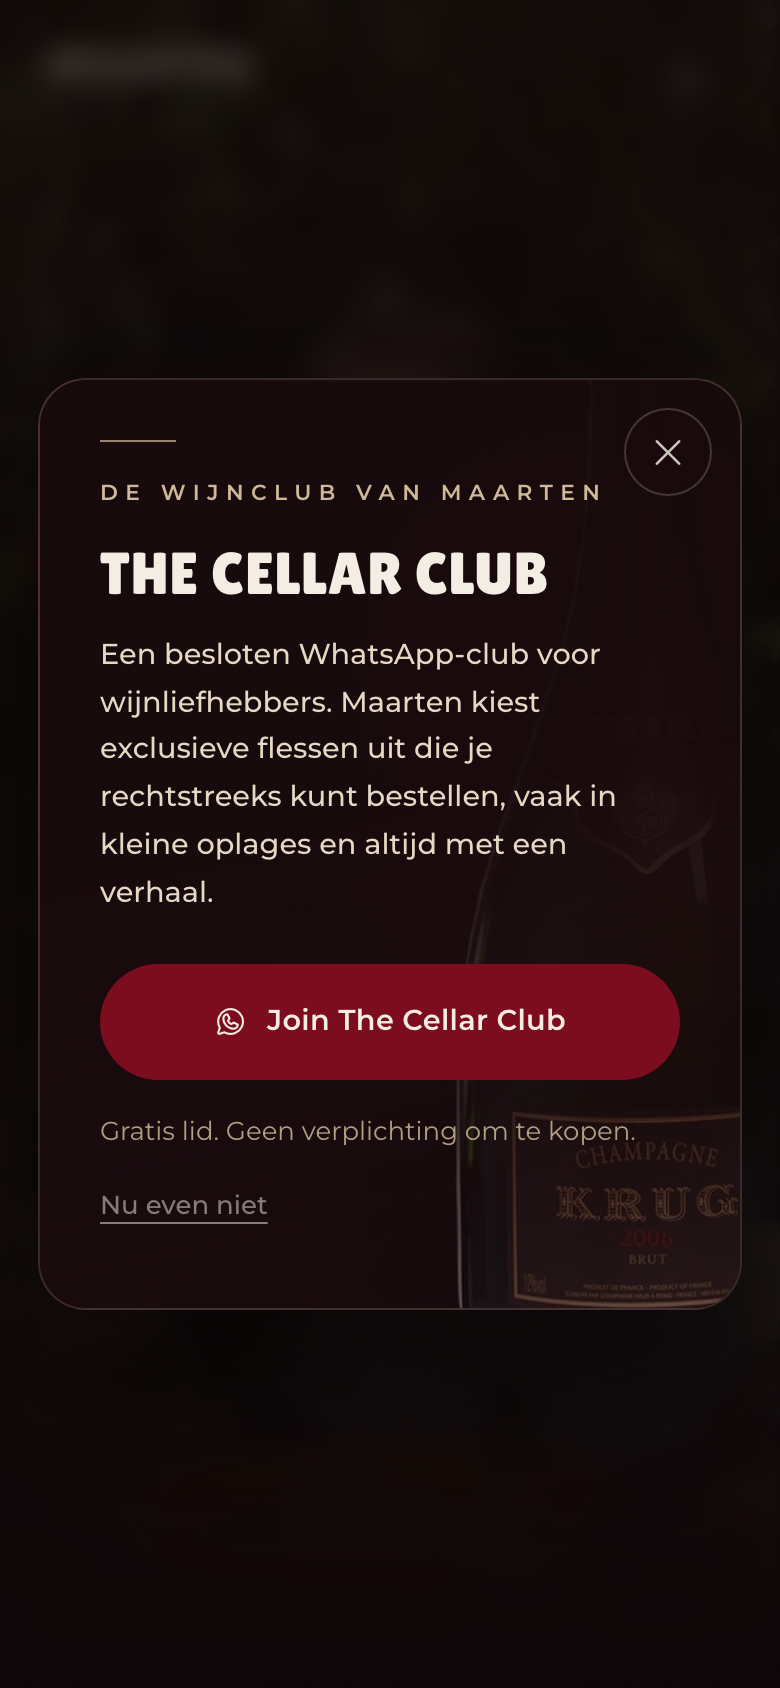
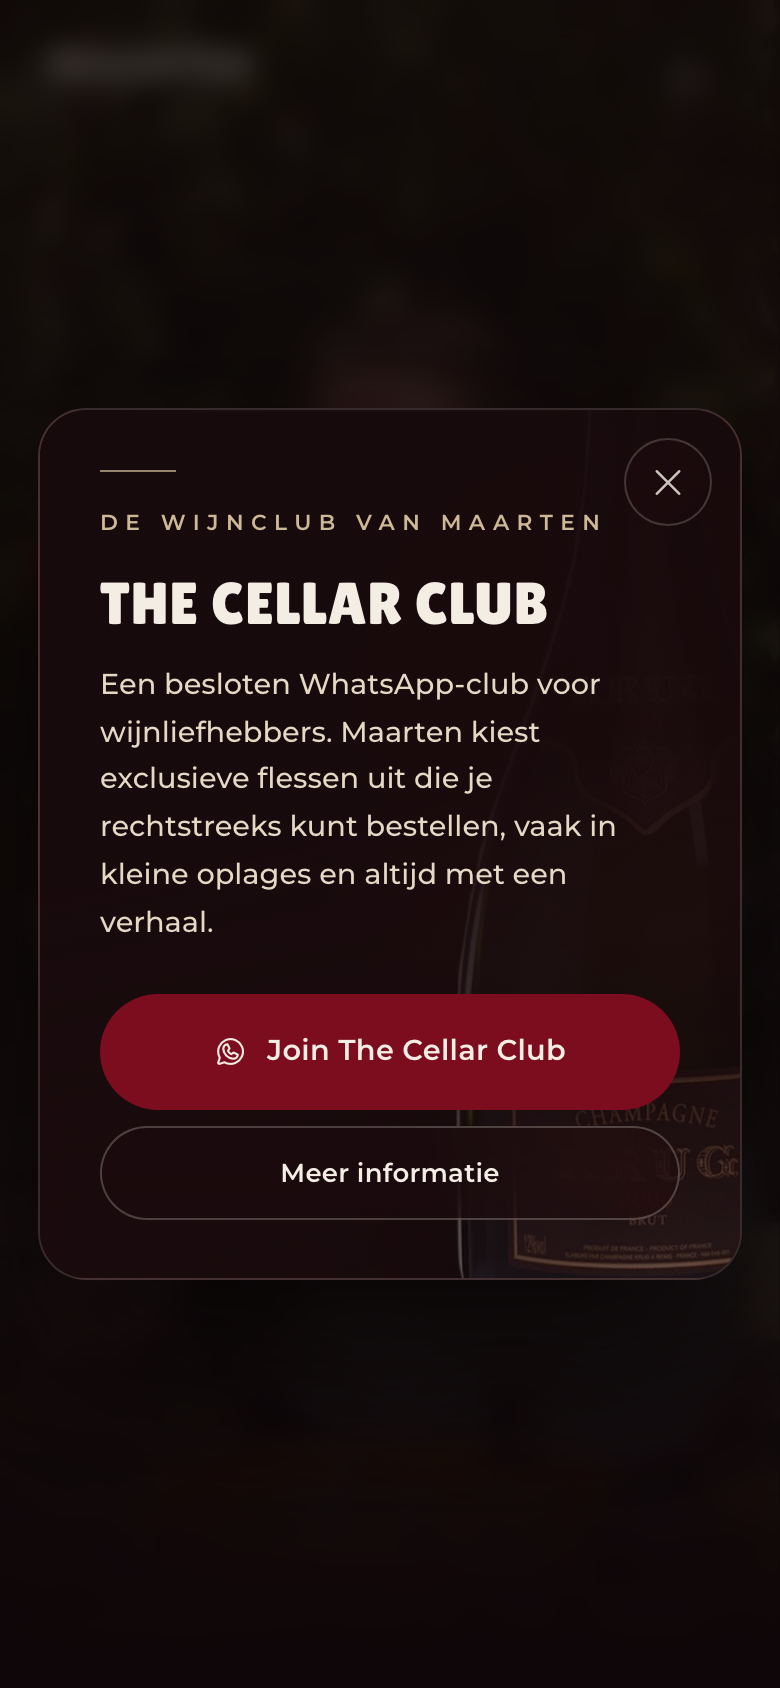
Pop-up: wegklik-link en geruststelling eruit, tweede knop erbij
Op verzoek van Job: "Nu even niet" en "Gratis lid. Geen verplichting om te
kopen." verwijderd, met hun instellingen uit settings_schema.json. Daarvoor
in de plaats onder de joinknop een kleinere, niet-rode knop (btn-glass)
"Meer informatie" naar /pages/the-cellar-club. Verdwijnt vanzelf als die
pagina niet bestaat.

Sluiten gaat nu via het kruisje, Escape of een klik naast het paneel.
De 30-dagen-vlag wordt voortaan meteen bij de klik geschreven in plaats van
pas na de fade: de nieuwe knop navigeert weg, en anders stond de pop-up er
bij terugkeer op de home gewoon weer.

Live gemeten: beide teksten weg, knop wijst naar /pages/the-cellar-club,
klikken navigeert en onthoudt, geen horizontale overflow op desktop of mobiel.

diff --git a/shopify-theme/assets/theme.css b/shopify-theme/assets/theme.css
@@ -1830,25 +1830,11 @@ h2.cc-pop-title { font-size: clamp(1.85rem, 5.2vw, 2.6rem); margin-top: 16px; }
   color: var(--cream-2); font-weight: 500;
   font-size: 0.95rem; line-height: 1.7; margin-top: 14px;
 }
-/* Hoofdactie en wegklikken op één lijn: scheelt een losse regel en geeft het blok
-   een rustige onderrand. Zelfde idee als .community-cta-row op de home. De
-   geruststelling valt met flex-basis 100% op een eigen regel eronder; op mobiel
-   wisselt hij van plek met de wegklik-link (order), zodat hij bij de knop blijft. */
-.cc-pop-row { display: flex; flex-wrap: wrap; align-items: center; gap: 6px; margin-top: 28px; }
-.cc-pop-dismiss { order: 2; }
-.cc-pop-note {
-  order: 3; flex-basis: 100%;
-  color: var(--tan); font-size: 0.8125rem; margin-top: 10px; opacity: 0.85;
-}
-.cc-pop-dismiss {
-  min-height: 44px; padding: 0 14px;
-  background: none; border: 0; cursor: pointer;
-  color: var(--cream); opacity: 0.5;
-  font-family: var(--font-body); font-size: 0.8125rem; font-weight: 500;
-  text-decoration: underline; text-underline-offset: 4px;
-  transition: opacity 0.25s;
-}
-.cc-pop-dismiss:hover { opacity: 0.85; }
+/* Joinknop met daaronder de rustige tweede knop naar de uitlegpagina. Gestapeld,
+   links uitgelijnd met de tekst erboven. Sluiten gaat via het kruisje, Escape of
+   een klik naast het paneel. */
+.cc-pop-row { display: flex; flex-direction: column; align-items: flex-start; gap: 10px; margin-top: 28px; }
+.cc-pop-more { padding: 11px 22px; font-size: 0.8125rem; }
 
 @media (max-width: 640px) {
   /* Fles zakt naar de onderhoek, half buiten beeld — precies zoals in de hero.
@@ -1859,11 +1845,9 @@ h2.cc-pop-title { font-size: clamp(1.85rem, 5.2vw, 2.6rem); margin-top: 16px; }
   }
   .cc-pop-body { max-width: 100%; }
   .cc-pop-text { font-size: 0.9rem; line-height: 1.65; }
-  /* Knop op volle breedte; geruststelling blijft er direct onder, wegklikken sluit de rij */
-  .cc-pop-row { flex-direction: column; align-items: stretch; gap: 0; margin-top: 24px; }
-  .cc-pop-cta { width: 100%; justify-content: center; }
-  .cc-pop-note { order: 2; margin-top: 14px; }
-  .cc-pop-dismiss { order: 3; padding: 0; margin-top: 4px; text-align: left; }
+  /* Beide knoppen op volle breedte onder elkaar */
+  .cc-pop-row { align-items: stretch; gap: 8px; margin-top: 24px; }
+  .cc-pop-cta, .cc-pop-more { width: 100%; justify-content: center; }
 }
 
 @media (prefers-reduced-motion: reduce) {

diff --git a/shopify-theme/assets/theme.js b/shopify-theme/assets/theme.js
@@ -329,7 +329,11 @@
     try { popGezien = parseInt(localStorage.getItem(POP_KEY), 10) || 0; } catch (e) {}
 
     if (Date.now() - popGezien > POP_HERHAAL_MS) {
+      var popOnthoud = function () {
+        try { localStorage.setItem(POP_KEY, String(Date.now())); } catch (e) {}
+      };
       var popSluit = function () {
+        popOnthoud(); /* meteen, niet pas na de fade: een knop kan wegnavigeren */
         pop.classList.remove("is-open");
         window.setTimeout(function () { if (pop.open) pop.close(); }, reduceMotion ? 0 : 300);
       };
@@ -343,11 +347,11 @@
 
       /* Eén handler voor élke manier van sluiten, ook Escape en de backdrop */
       pop.addEventListener("close", function () {
-        try { localStorage.setItem(POP_KEY, String(Date.now())); } catch (e) {}
+        popOnthoud();
         if (lenis) lenis.start(); else document.body.style.overflow = "";
       });
       pop.addEventListener("click", function (e) { if (e.target === pop) popSluit(); });
-      pop.querySelectorAll(".cc-pop-close, .cc-pop-dismiss, .cc-pop-cta").forEach(function (el) {
+      pop.querySelectorAll(".cc-pop-close, .cc-pop-cta, .cc-pop-more").forEach(function (el) {
         el.addEventListener("click", popSluit);
       });
     }

diff --git a/shopify-theme/preview-cellar-popup.html b/shopify-theme/preview-cellar-popup.html
@@ -38,8 +38,7 @@
         <a class="btn btn-primary cc-pop-cta" href="#" target="_blank" rel="noopener">
           <i class="ph ph-whatsapp-logo" aria-hidden="true"></i>Join The Cellar Club
         </a>
-        <button class="cc-pop-dismiss" type="button">Nu even niet</button>
-        <p class="cc-pop-note">Gratis lid. Geen verplichting om te kopen.</p>
+        <a class="btn btn-glass cc-pop-more" href="#">Meer informatie</a>
       </div>
     </div>
   </div>
